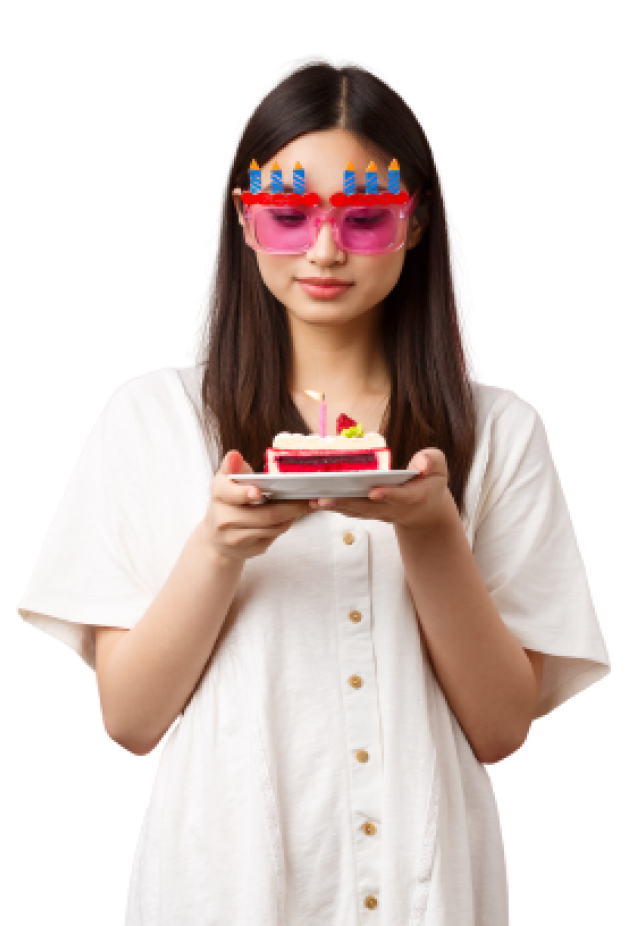
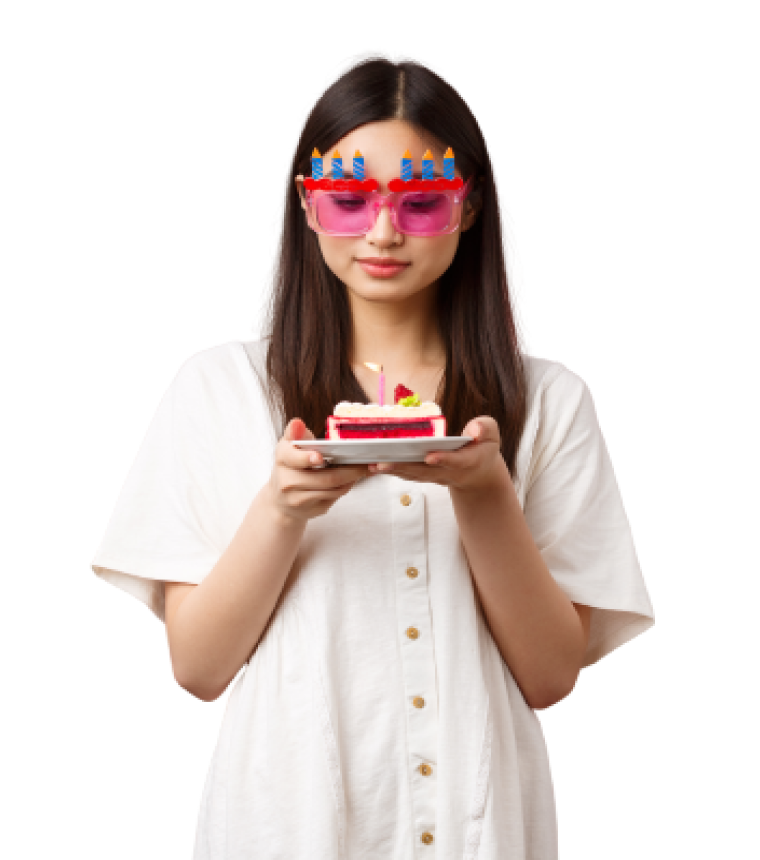
fix: hero image sizing

diff --git a/styles.css b/styles.css
@@ -191,14 +191,6 @@ body {
   transition: all 0.5s ease-in-out;
 }
 
-.product-desc {
-  /* max-height: 60px; */
-  /* overflow: hidden; */
-  /* white-space: nowrap; */
-  /* display: block;
-  text-overflow: ellipsis; */
-}
-
 .border-radius16 {
   border-radius: 16px;
 }
